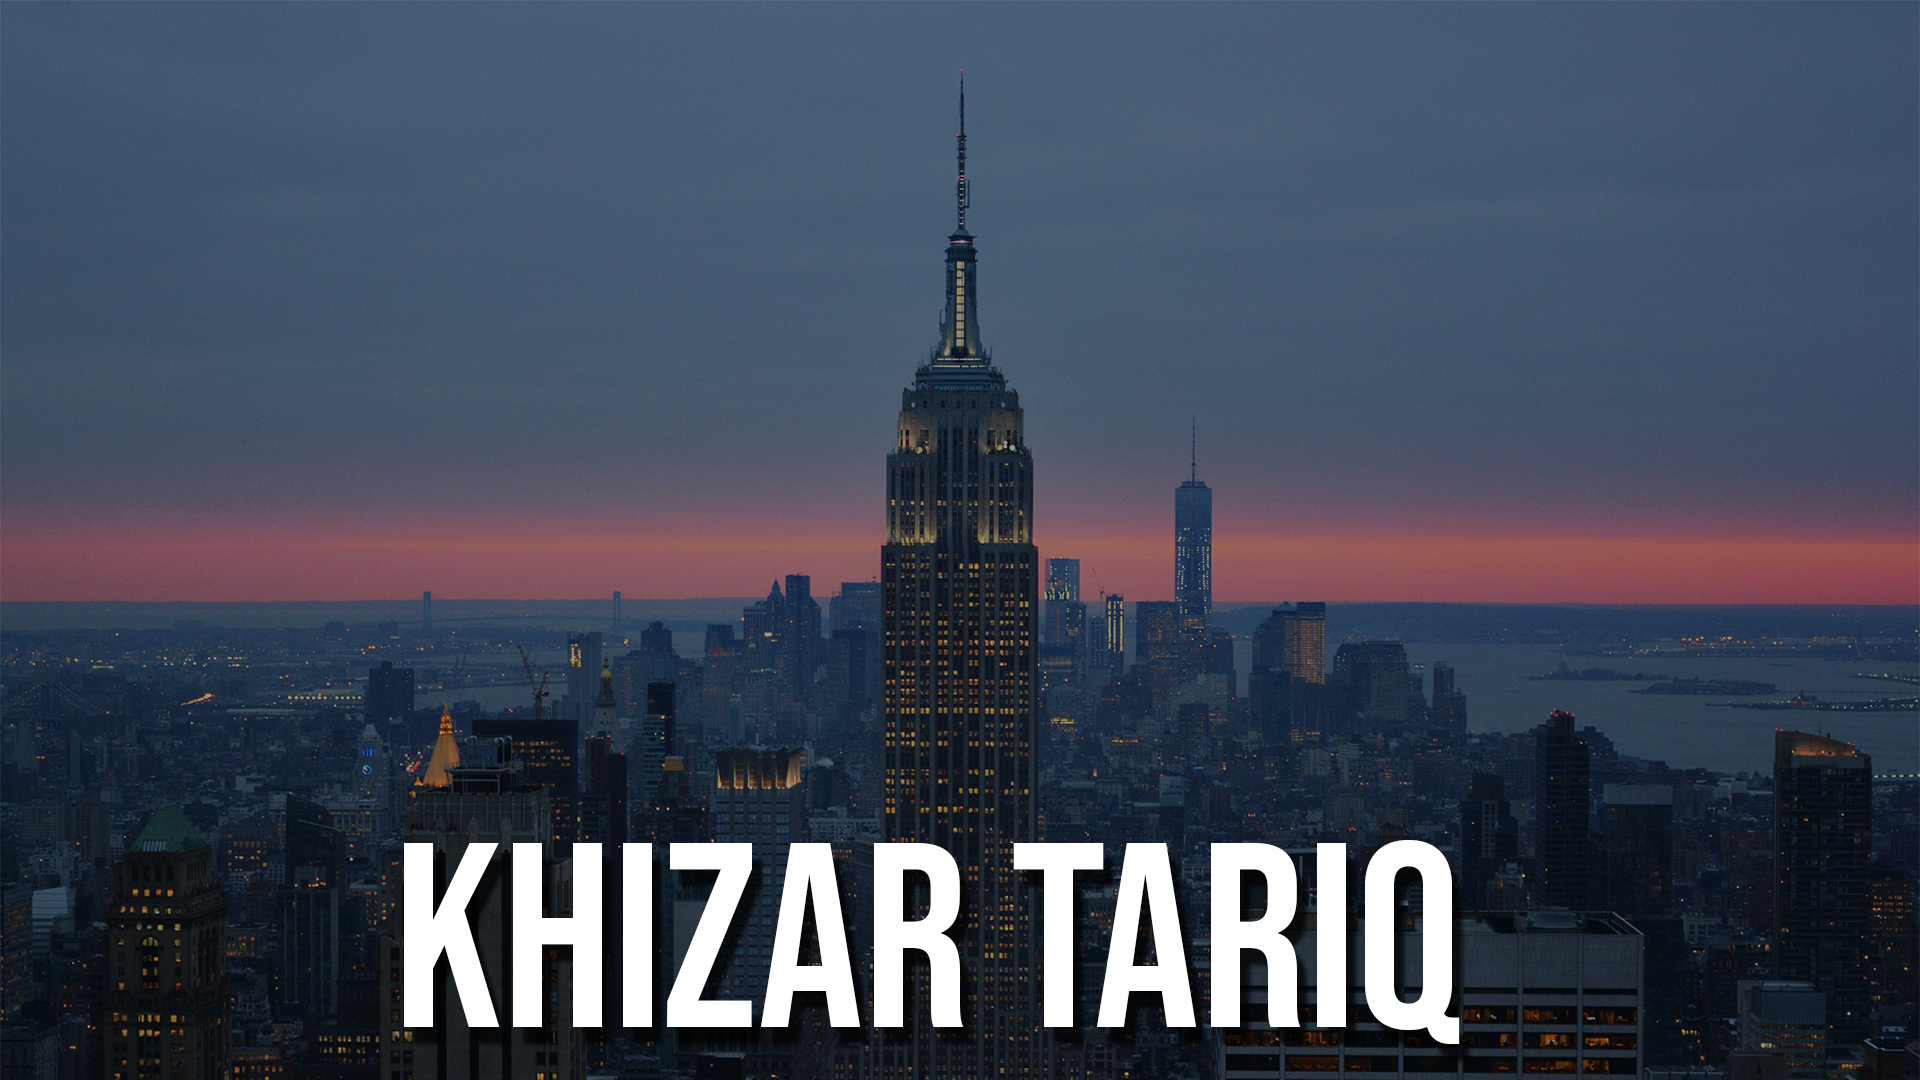
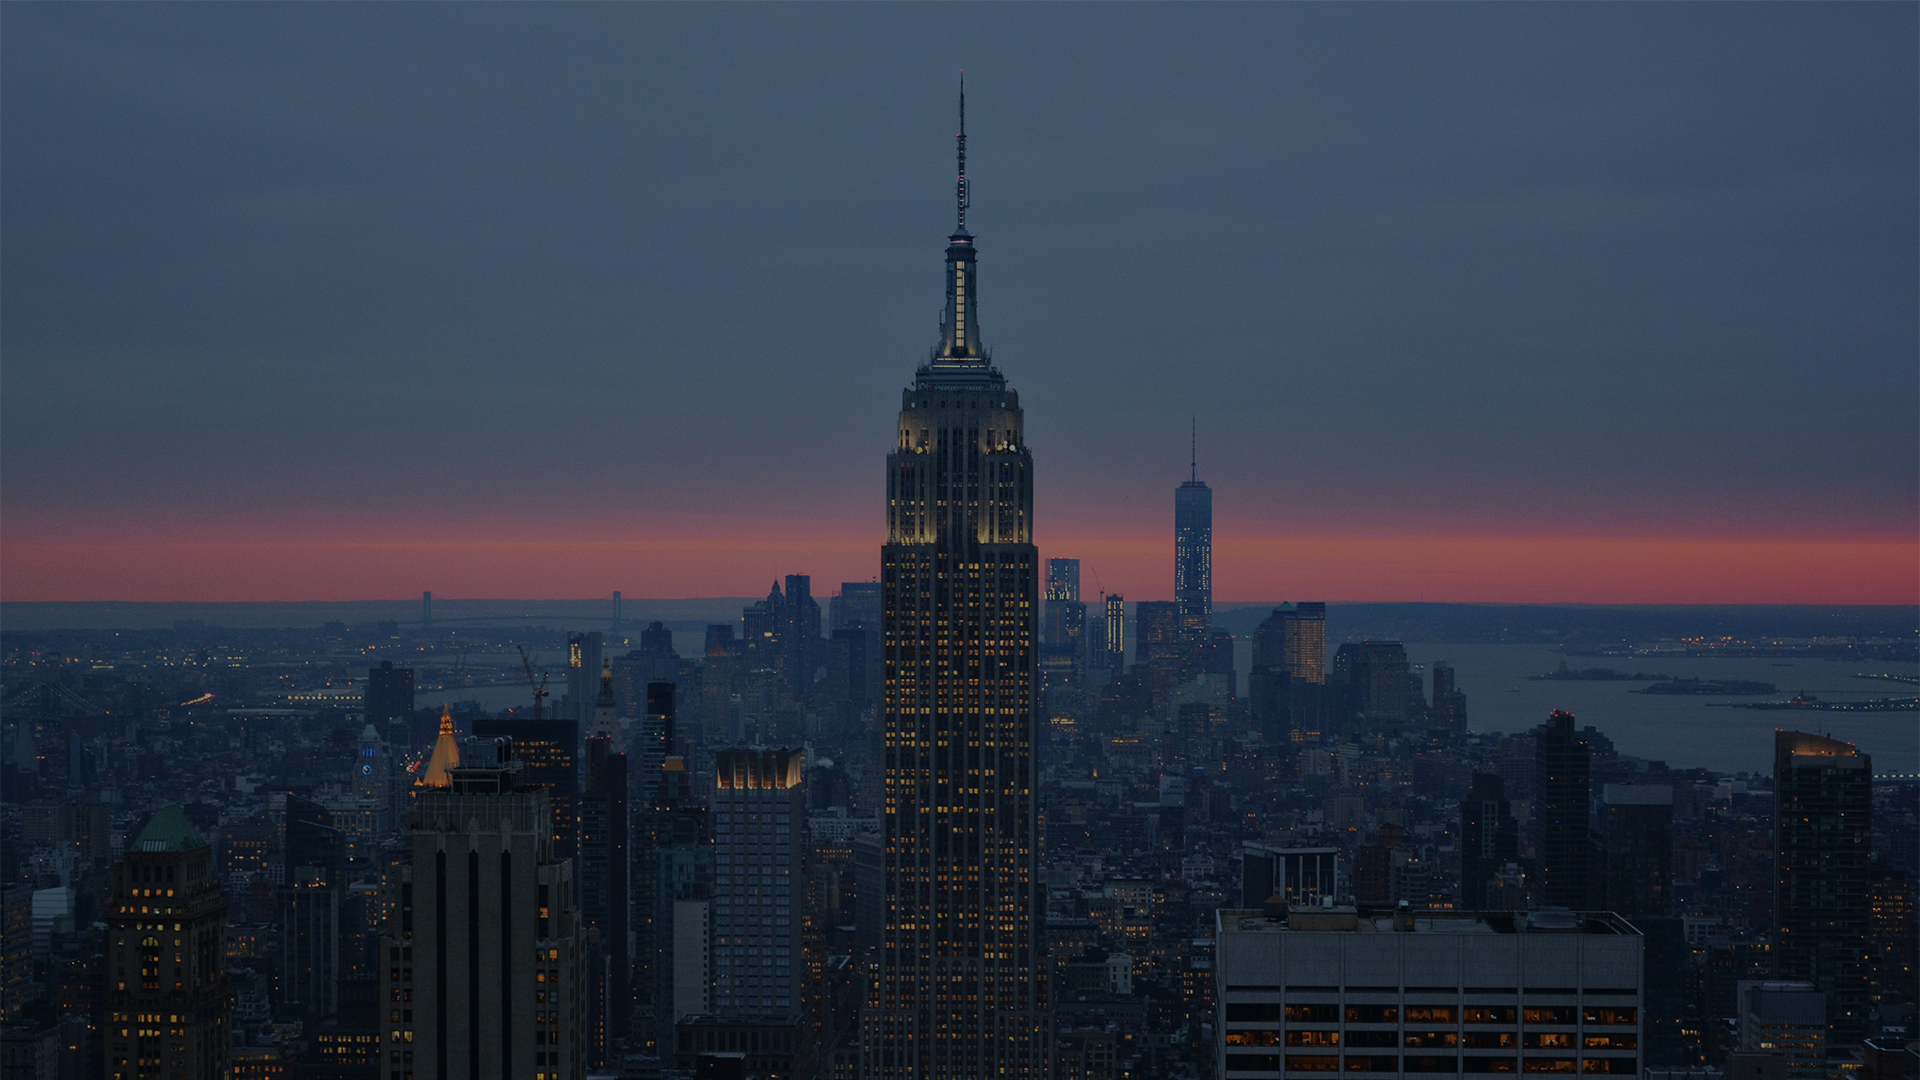
Centered homepage text

Changed region(s): [[0.1875, 0.7639, 0.5, 0.9778], [0.5312, 0.7639, 0.7812, 0.9778]]

diff --git a/style.css b/style.css
@@ -49,8 +49,8 @@ h1 {
     color: #FFFFFF;
     text-align: center;
     padding: 20vh;
-    margin: 0px;
-    margin-top: -100px;
+    margin: auto;
+    margin-top: -10vh;
 }
 
 div.content-outer {
@@ -69,7 +69,6 @@ div.content-inner {
     padding: 50px 20px;
     margin: 0px auto;
     display: block;
-    white-space: nowrap;
 }
 
 @media (max-width: 768px) {

diff --git a/index.html b/index.html
@@ -11,13 +11,12 @@
 <body>
 
 <div class="parallax">
-    <h1>This is Khizar Tariq's Website</h1>
+    <h1>Hi, I'm Khizar Tariq</h1>
 </div>
 
 <div class="content-outer">
     <div class="content-inner">
 		<p>This website is currently under development</p>
-        <p>Shoutout SJ!</p>
     </div>
 </div>
 
